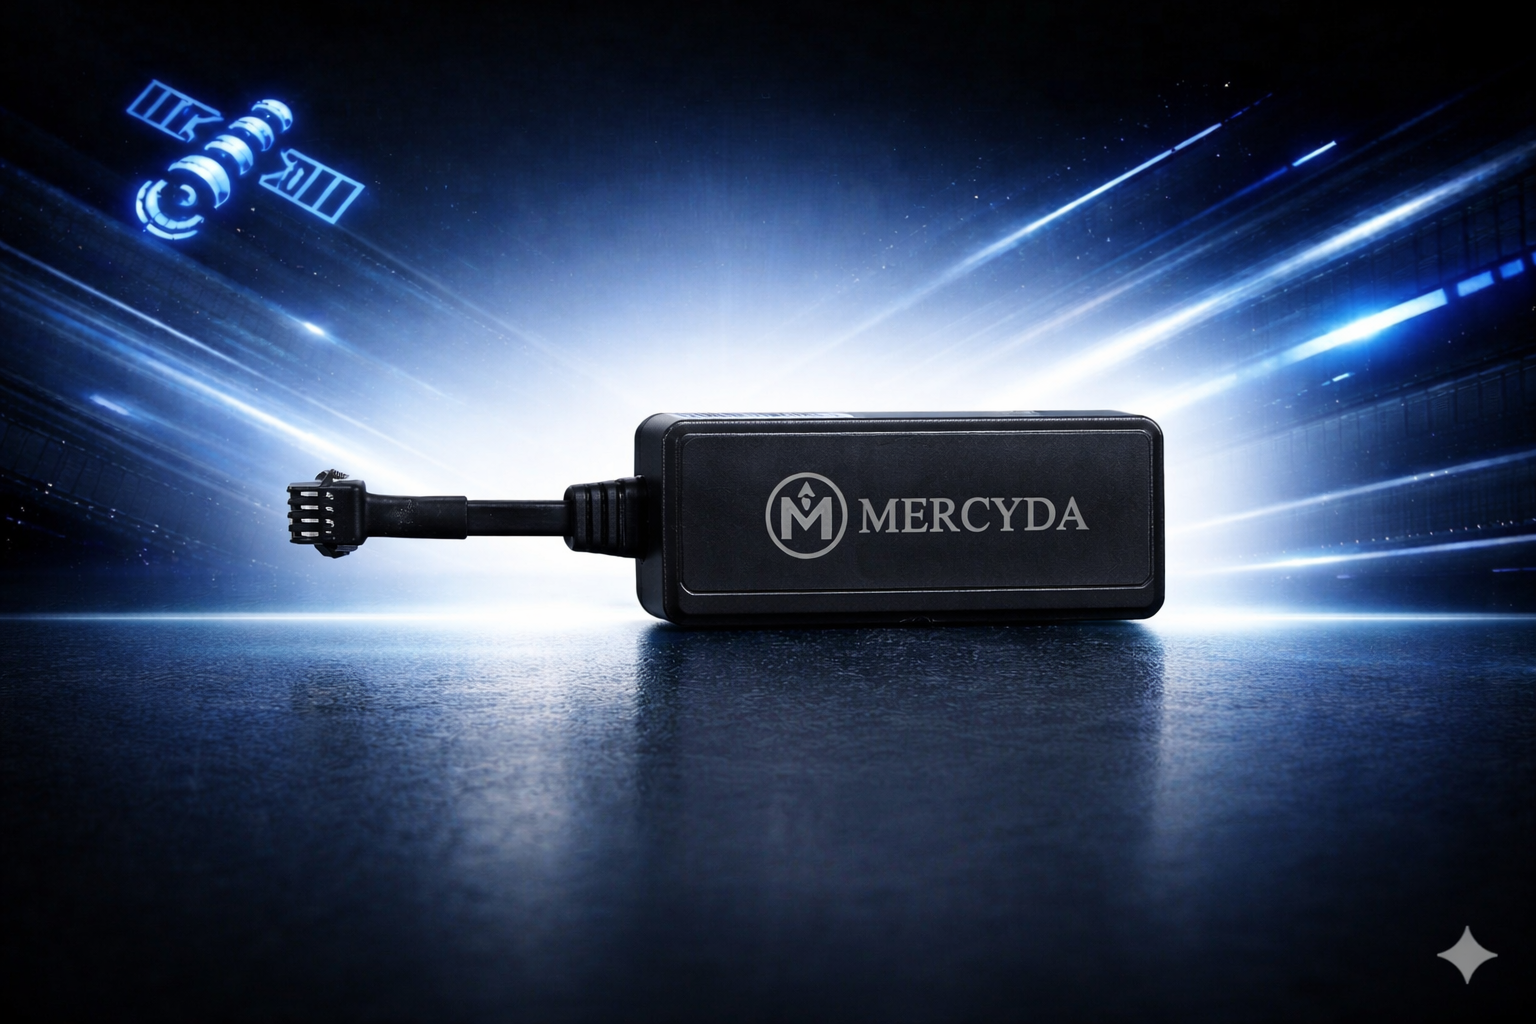
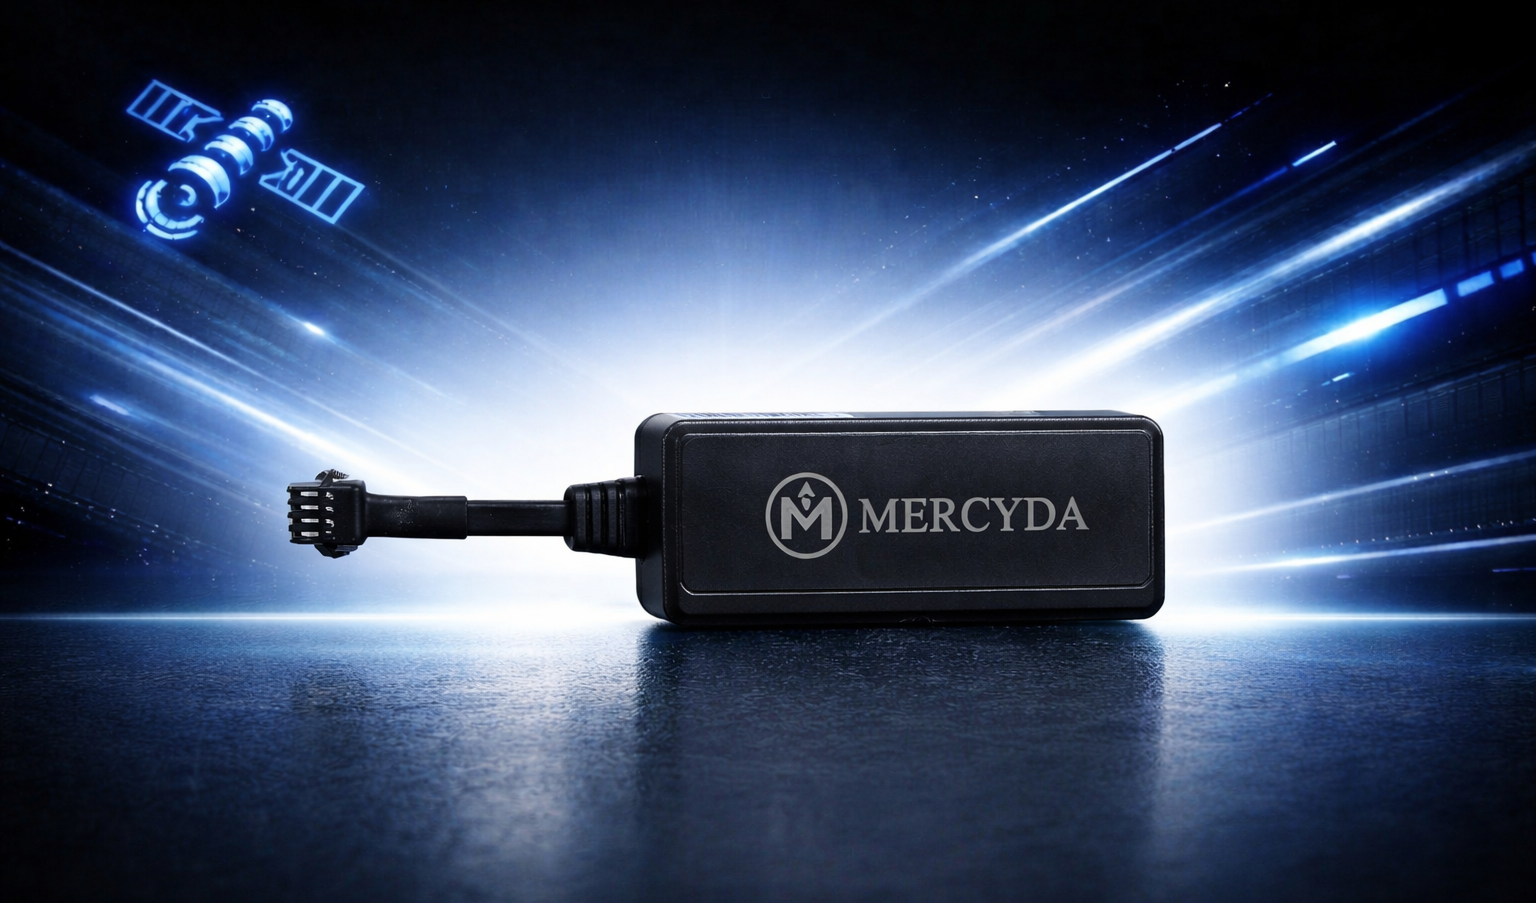
Updated the images and removed the extra image in vts-4g+

diff --git a/products/telematics/new-vts-140a-4g.html b/products/telematics/new-vts-140a-4g.html
@@ -590,9 +590,6 @@
                         <div class="details-image">
                             <img src="../../assets/new-vts.png" alt="Mercyda 4g-lte Device Close-up" class="details-image-main">
                         </div>
-                        <div class="details-image">
-                            <img src="../../assets/4G-LTE-1.jpg" alt="Mercyda 4g-lte Device Close-up" class="details-image-main">
-                        </div>
                     </div>
 
                     
